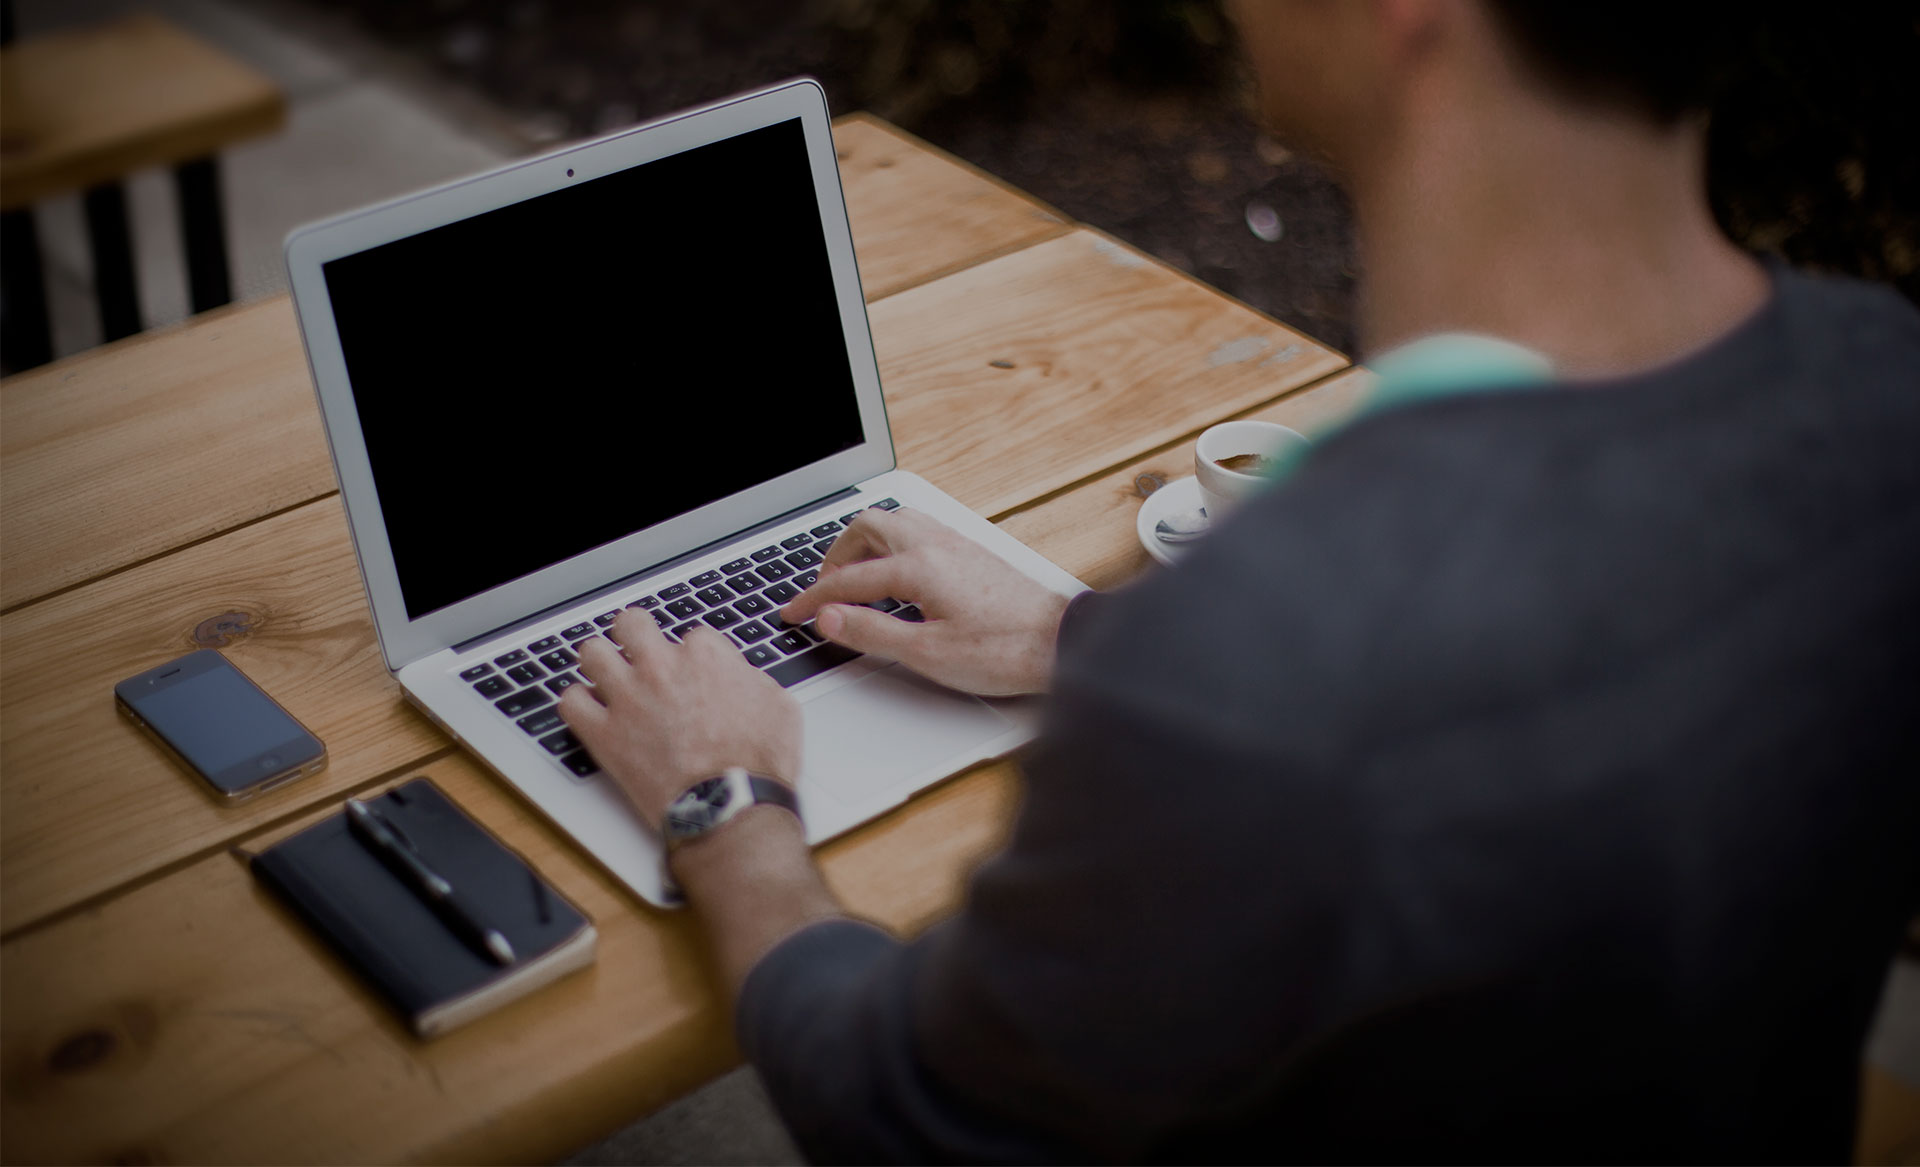
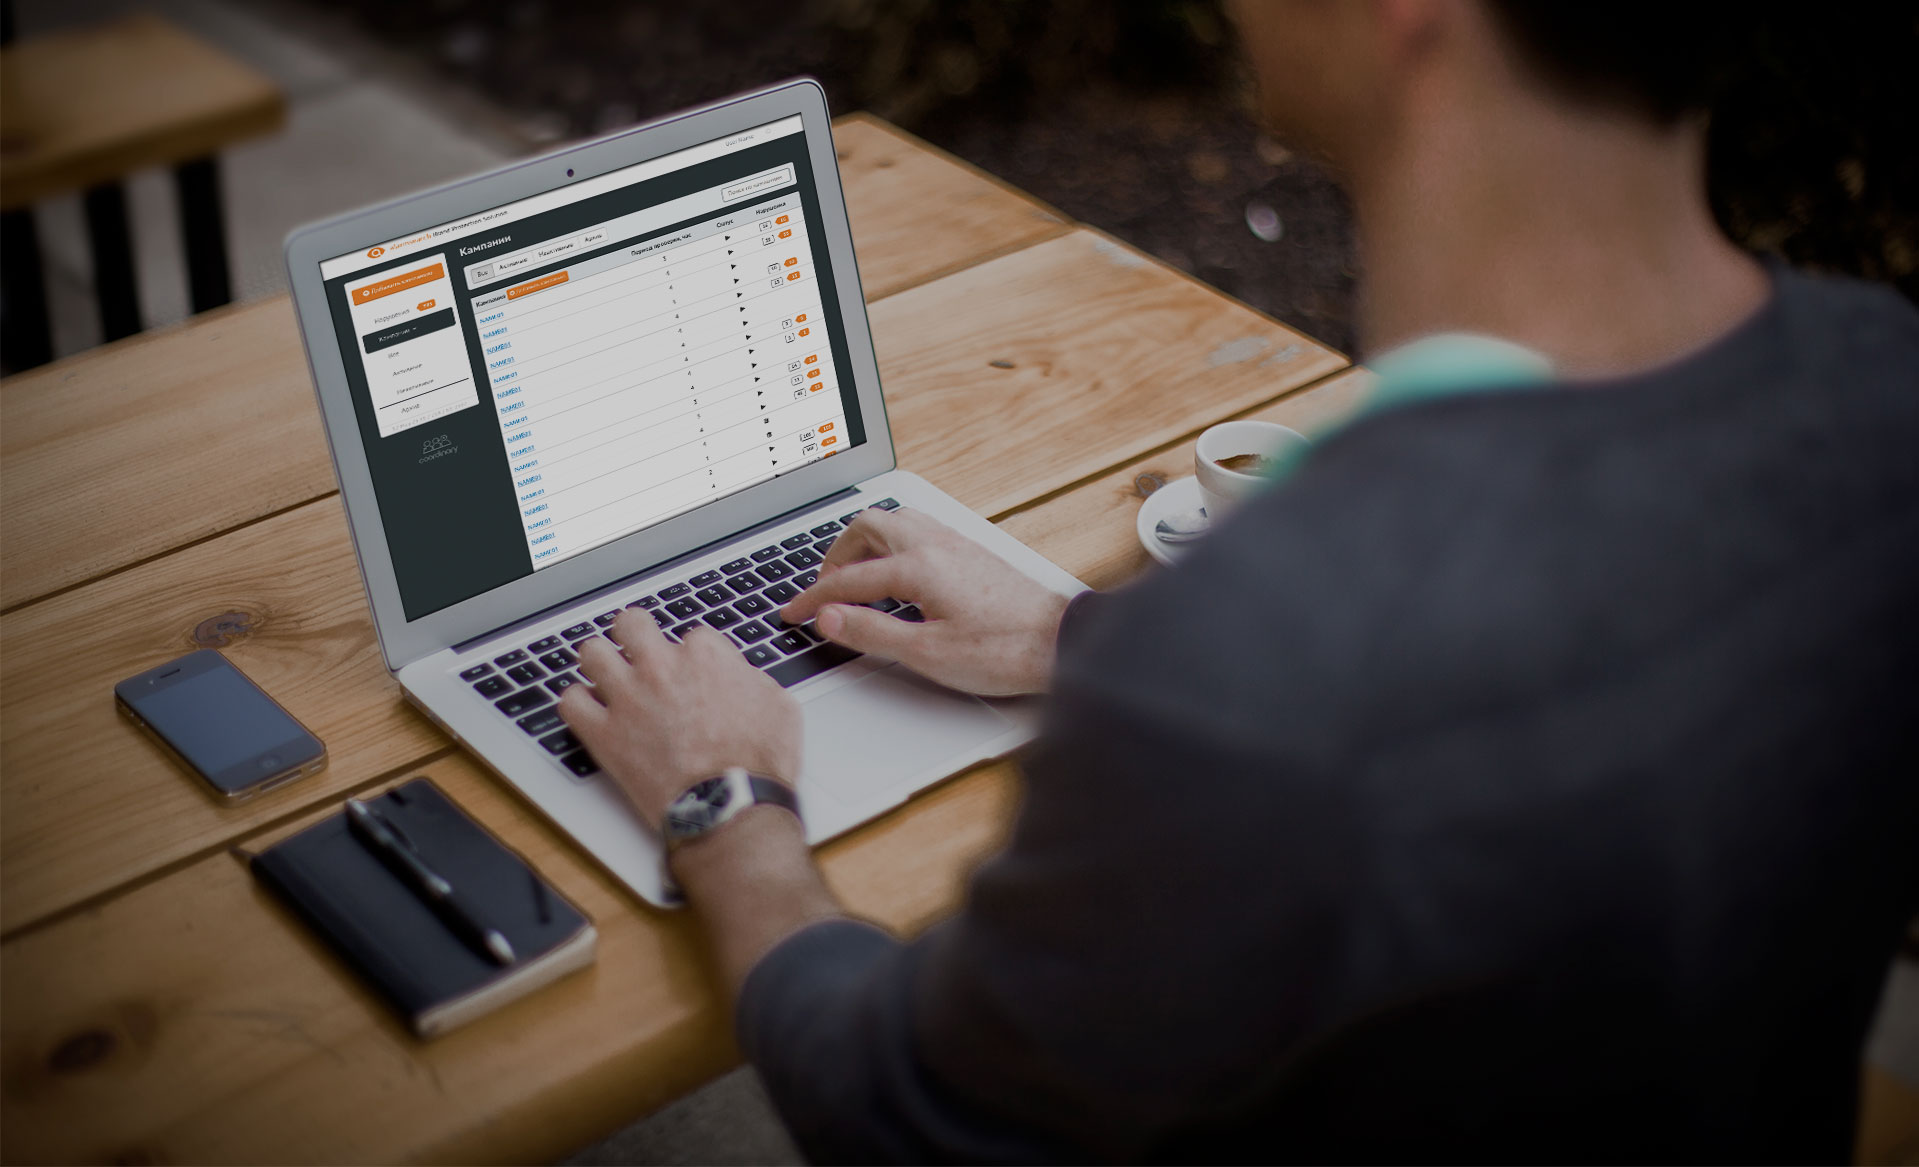
Почистил src добавил новые картинки + оптимизировал их

Changed region(s): [[0.1537, 0.0925, 0.4612, 0.5244]]

diff --git a/src/css/style.css b/src/css/style.css
@@ -634,6 +634,9 @@ body{
   float: right;
   margin-right: 30px;
 }
+.footer__logo:hover{
+  opacity: .8;
+}
 
 .footer-navigation{
   float: left;

diff --git a/src/css/postcss/project/footer.css b/src/css/postcss/project/footer.css
@@ -6,6 +6,10 @@
     display: block;
     float: right;
     margin-right: 30px;
+
+    &:hover{
+      opacity: .8;
+    }
   }
 }
 
